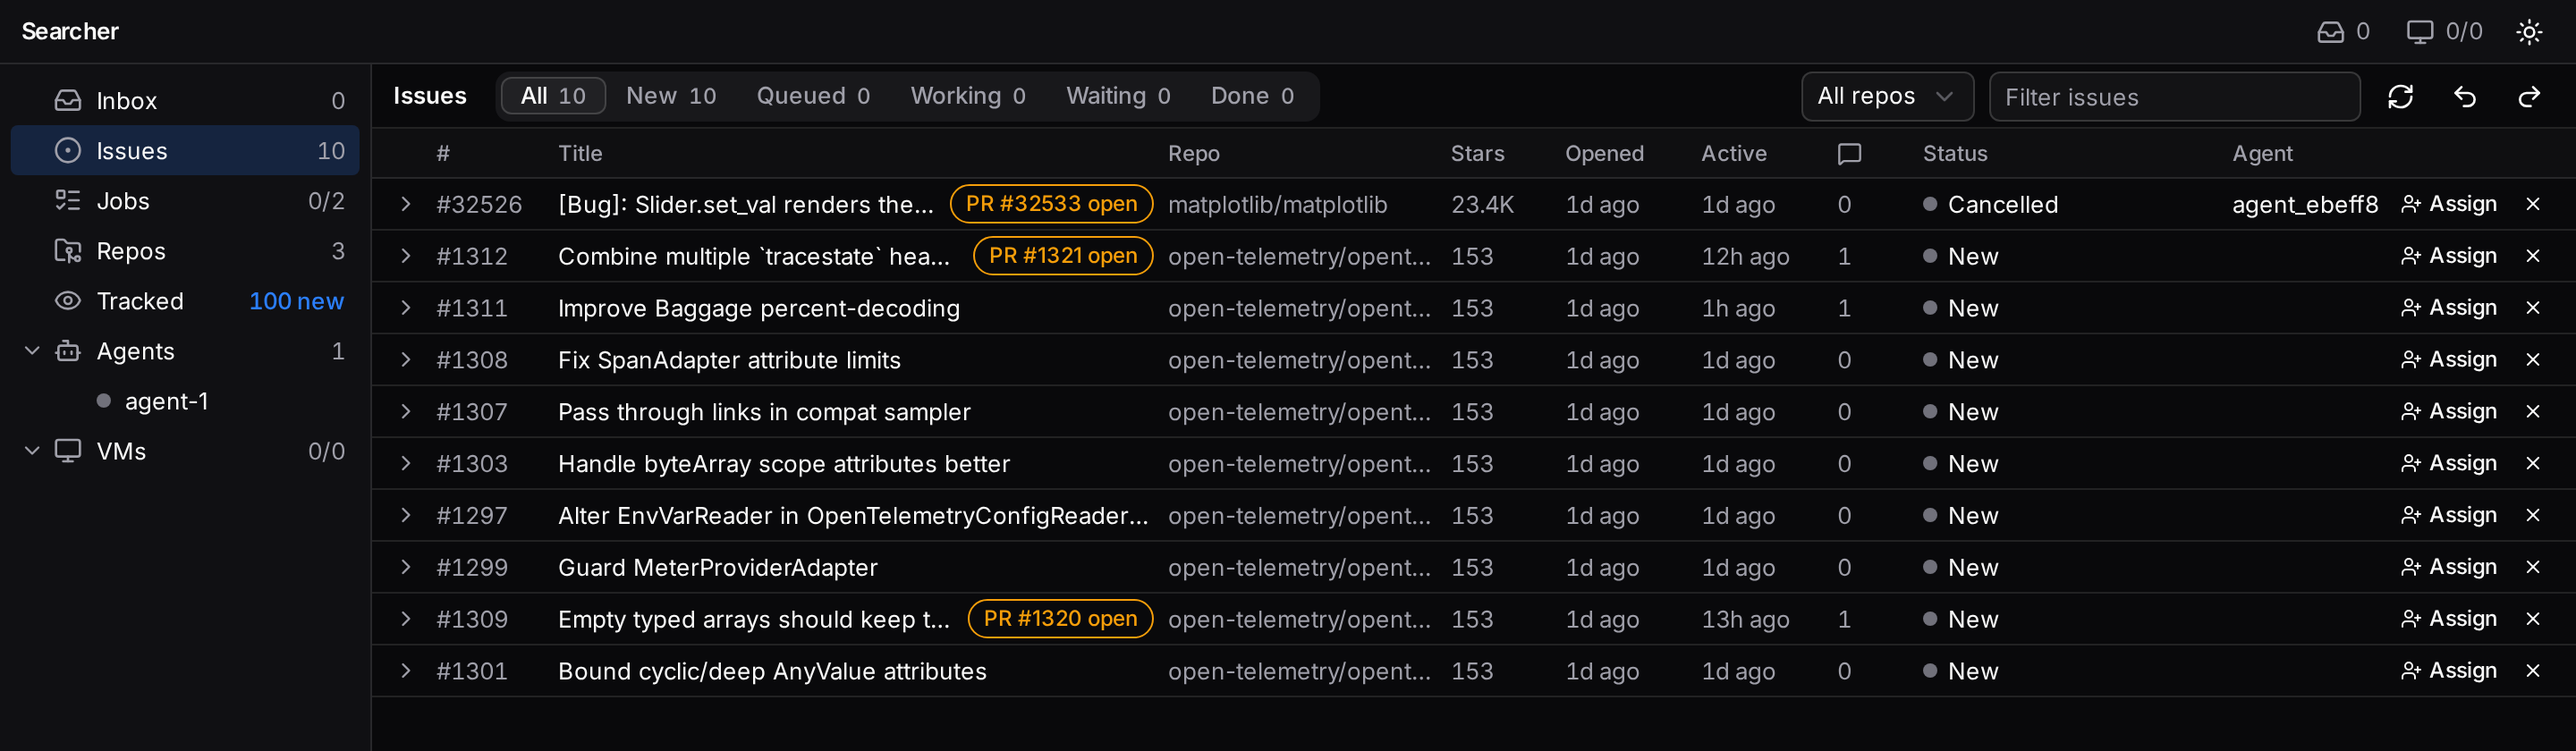
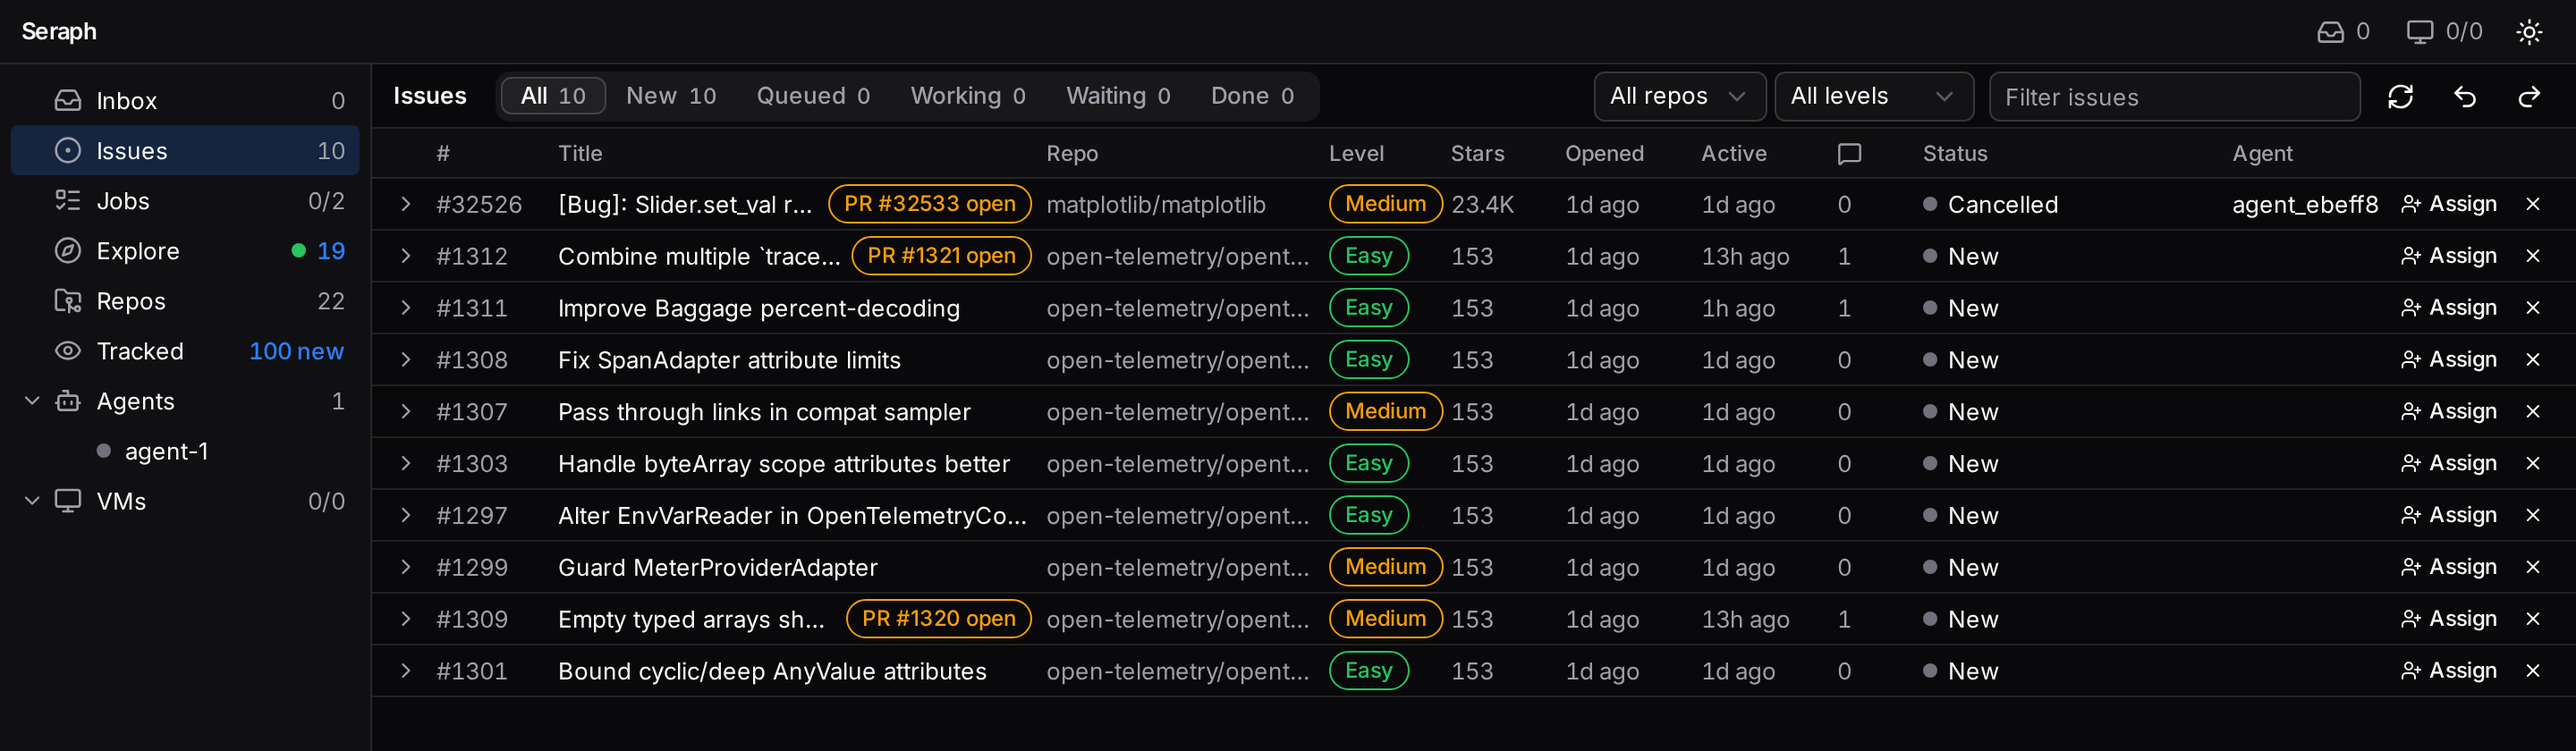
docs(readme): refresh README, diagrams and screenshots

diff --git a/README.md b/README.md
@@ -1,5 +1,5 @@
 <p align="center">
-  <img src="docs/banner.svg" alt="GitHub Searcher: agents find good first issues, fix them in VMs and prove it. Nothing reaches GitHub until you send it yourself." width="100%">
+  <img src="docs/banner.svg" alt="Seraph: agents find good first issues, fix them in VMs and prove it. Nothing reaches GitHub until you send it yourself." width="100%">
 </p>
 
 <p align="center">
@@ -23,11 +23,13 @@
   <img src="docs/screenshots/inbox-evidence.png" alt="The Inbox: a PR draft for matplotlib with before-and-after renders the agent captured in its VM" width="100%">
 </p>
 
-GitHub Searcher is a local workbench for contributing to open source with AI agents, without handing them the keys.
+Seraph is a local workbench for contributing to open source with AI agents, without handing them the keys.
 
 Agents search GitHub for good first issues that are worth doing, and check how fast each project's maintainers answer outside contributors. They set each issue up in a sandbox VM, reproduce the bug, fix it, and back the fix with test runs and before-and-after evidence. Every PR, comment and question lands in your **Inbox** as a draft. The app never posts to GitHub: you read each draft, decide on it, and send it yourself.
 
 > **Why a human in the loop?** Maintainers notice drive-by AI pull requests. One agent's note on matplotlib, as it appears in the app: *"AI-generated PRs on good first issues get closed, so you must write the fix yourself."* This tool does the legwork and leaves the judgement, and the name on the PR, to you.
+
+> **Why "Seraph"?** In *The Matrix Reloaded*, Seraph is the program who guards the Oracle and tests everyone who wants to see her. This one tests every fix before it gets to you.
 
 ## Features
 

diff --git a/docs/architecture.md b/docs/architecture.md
@@ -1,6 +1,6 @@
 # Architecture
 
-github_searcher is a harness for finding and fixing GitHub good first issues, with a human in the loop.
+Seraph is a harness for finding and fixing GitHub good first issues, with a human in the loop.
 Agents search GitHub, keep the lists and do the hands-on work in sandbox VMs. Nothing reaches GitHub until you send it yourself.
 
 The diagrams are SVG files in this folder and follow your light or dark theme.
